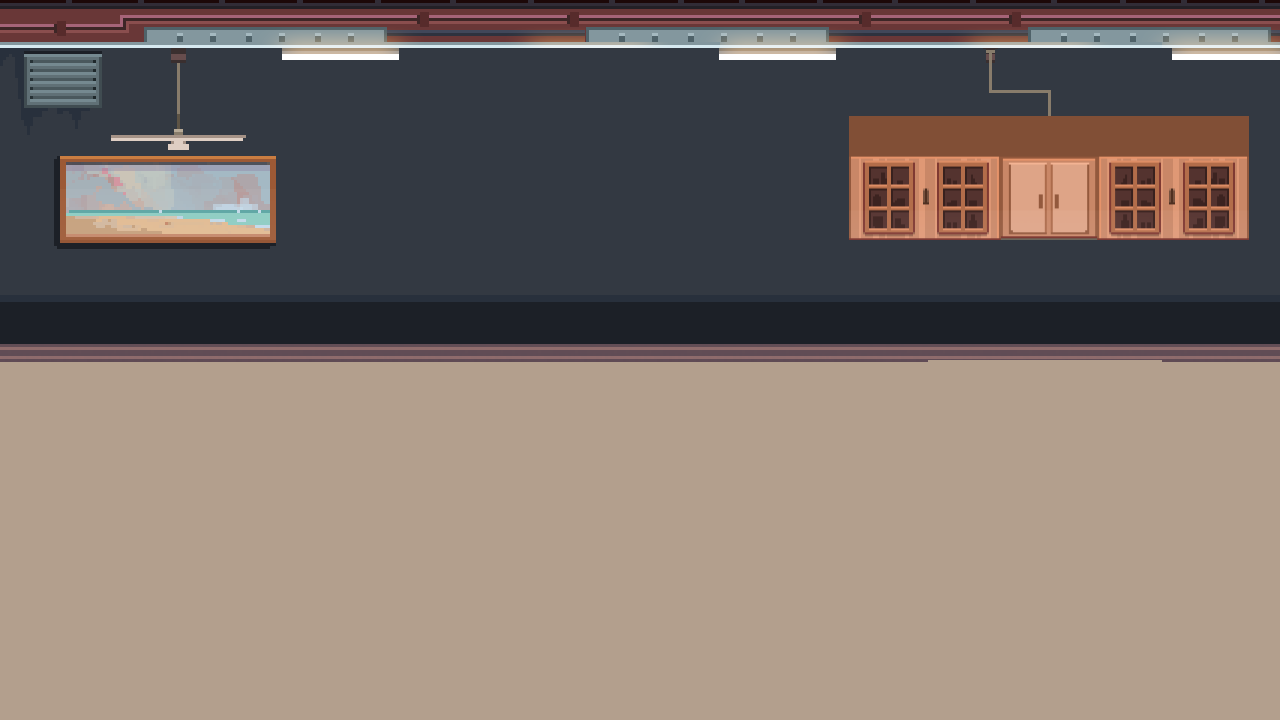
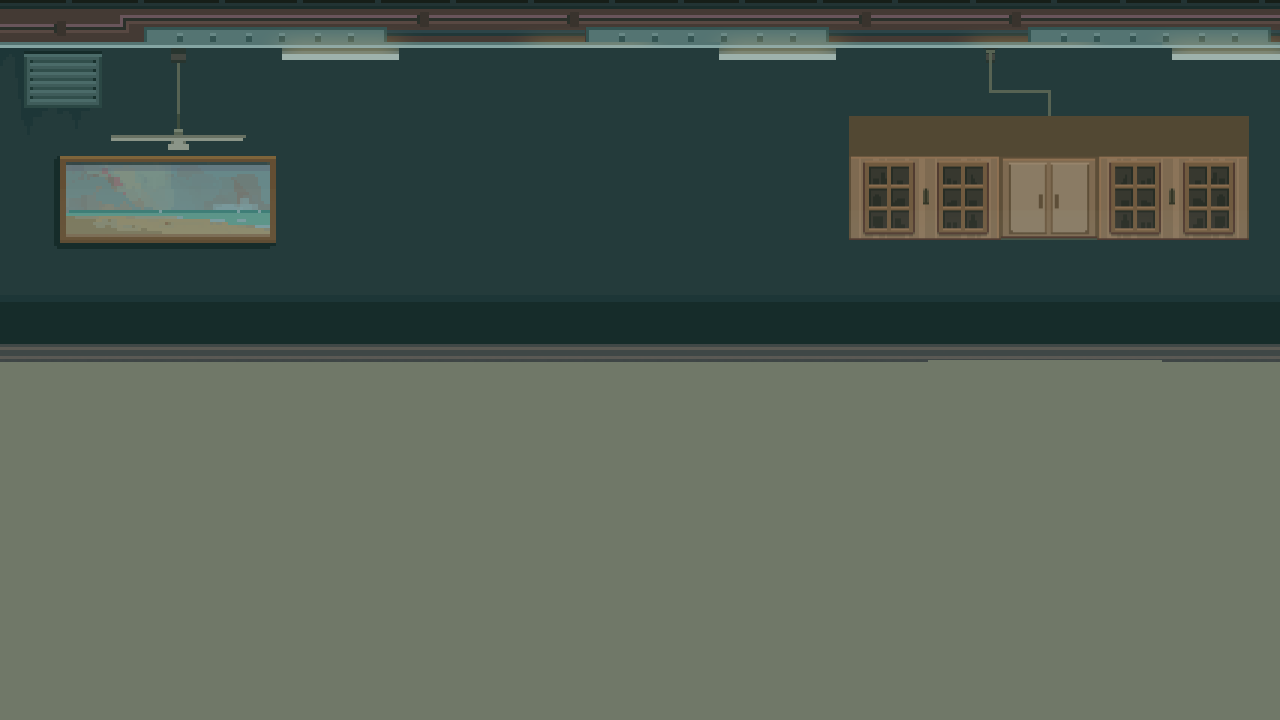
añadida escena17caso1.png

diff --git a/ProyectosSDL/HolaSDL/Resources.cpp b/ProyectosSDL/HolaSDL/Resources.cpp
@@ -28,7 +28,8 @@ std::vector<std::string> Resources::imageFiles_ { "..//images/AlenaSpriteSheet.p
 	"..//images//escena11caso1.png", "..//images//puertaTrasera_edificio_Drzewo.png", "..//images//Cubo de basura_edificio_Drzewo.png", "..//images//Basura_edificio_Drzewo.png", 
 	"..//images//escalera Incendios_edificio_Drzewo.png", "..//IMAGES//GUIdialogosAlpha.png", "..//images//curioso1.png", "..//images//curioso2.png", "..//images//curioso3.png", "..//images//curioso4.png", 
 	"..//images//escena15caso1.png", "..//images//escena18caso1.png", "..//images//encimeraMuerto.png", "..//images//escena14caso1.png", "..//images//estanteriaVieja.png",  "..//images//mesillaVieja.png",
-	"..//images//sofaVieja.png",  "..//images//mesaVieja.png"};
+	"..//images//sofaVieja.png",  "..//images//mesaVieja.png", "..//images//escena17caso1.png", "..//images//mesaMuerto.png" , "..//images//mesillaMuerto.png" ,"..//images//sofaMuerto.png"  ,
+	"..//images//plantaMuerto.png", };
 
 
 

diff --git a/ProyectosSDL/HolaSDL/Resources.h b/ProyectosSDL/HolaSDL/Resources.h
@@ -140,7 +140,13 @@ public:
 		EstanteriaVieja,
 		MesillaVieja,
 		SofaVieja,
-		MesaVieja
+		MesaVieja,
+		Escena17Caso1,
+		MesaMuerto,
+		MesillaMuerto,
+		SofaMuerto,
+		PlantaMuerto,
+
 	};
 private:
 	static std::vector<std::string> imageFiles_; // initialized in .cpp
